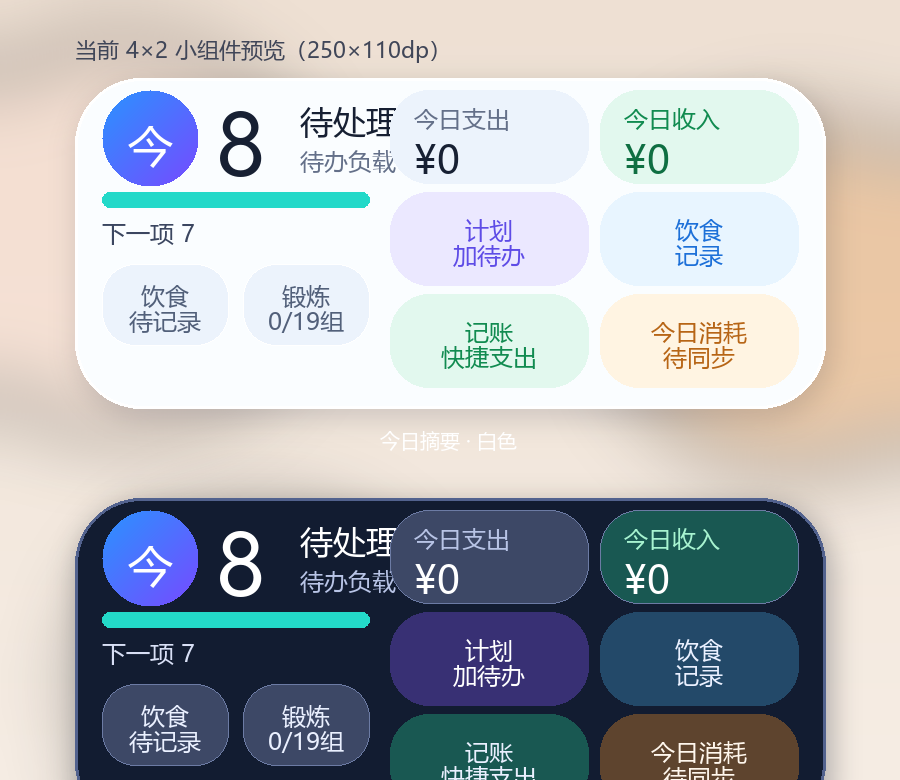
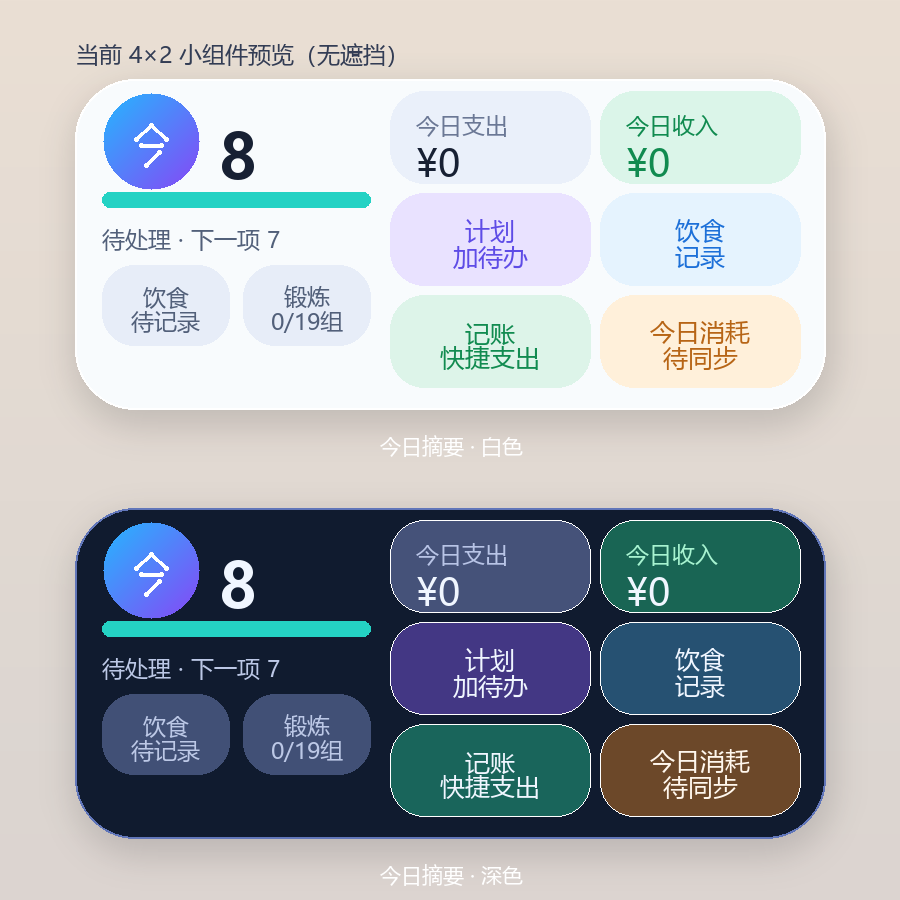
fix: center widget today mark

diff --git a/android/app/src/main/kotlin/com/pingsheng/pingsheng_life/PingShengWidgetProvider.kt b/android/app/src/main/kotlin/com/pingsheng/pingsheng_life/PingShengWidgetProvider.kt
@@ -151,8 +151,8 @@ private object PingShengWidgetRenderer {
         val todoProgress = ((pendingTodos.coerceAtMost(8) / 8.0) * 100).toInt()
         views.setTextViewText(R.id.widget_primary_metric_value, "$pendingTodos")
         views.setTextViewText(R.id.widget_primary_metric_label, "待处理")
-        views.setTextViewText(R.id.widget_todo_load_label, "待办负载 ${todoProgress}%")
-        views.setTextViewText(R.id.widget_next_todo, "下一项 $nextTodoTitle")
+        views.setTextViewText(R.id.widget_todo_load_label, "待办")
+        views.setTextViewText(R.id.widget_next_todo, "待处理 · 下一项 $nextTodoTitle")
         views.setProgressBar(R.id.widget_todo_progress, 100, todoProgress, false)
         views.setTextViewText(R.id.widget_finance_expense, expenseText)
         views.setTextViewText(R.id.widget_finance_income, incomeText)

diff --git a/tools/check_widget_redesign.py b/tools/check_widget_redesign.py
@@ -15,11 +15,12 @@ WIDGET_INFOS = [
     ROOT / "android/app/src/main/res/xml/pingsheng_widget_dark_info.xml",
     ROOT / "android/app/src/main/res/xml/pingsheng_widget_light_info.xml",
 ]
+TODAY_MARK = ROOT / "android/app/src/main/res/drawable/pingsheng_widget_today_mark.xml"
 
 
 def main() -> int:
     # 这个检查不跑 Android 构建，只用静态 token 防止关键控件或动作被误删。
-    missing_files = [str(path.relative_to(ROOT)) for path in [*LAYOUTS, *WIDGET_INFOS] if not path.exists()]
+    missing_files = [str(path.relative_to(ROOT)) for path in [*LAYOUTS, *WIDGET_INFOS, TODAY_MARK] if not path.exists()]
     if missing_files:
         print("Missing widget theme files: " + ", ".join(missing_files))
         return 1
@@ -39,6 +40,7 @@ def main() -> int:
         "widget_active_calories",
         "widget_finance_expense",
         "widget_finance_income",
+        "pingsheng_widget_today_mark",
         "今日支出",
         "今日收入",
         "今日消耗",
@@ -53,6 +55,8 @@ def main() -> int:
         "平生今日",
         "轻量记录",
         "今日同步",
+        "待办负载",
+        'android:text="今"',
     ]
     android_id = "{http://schemas.android.com/apk/res/android}id"
     orientation = "{http://schemas.android.com/apk/res/android}orientation"
